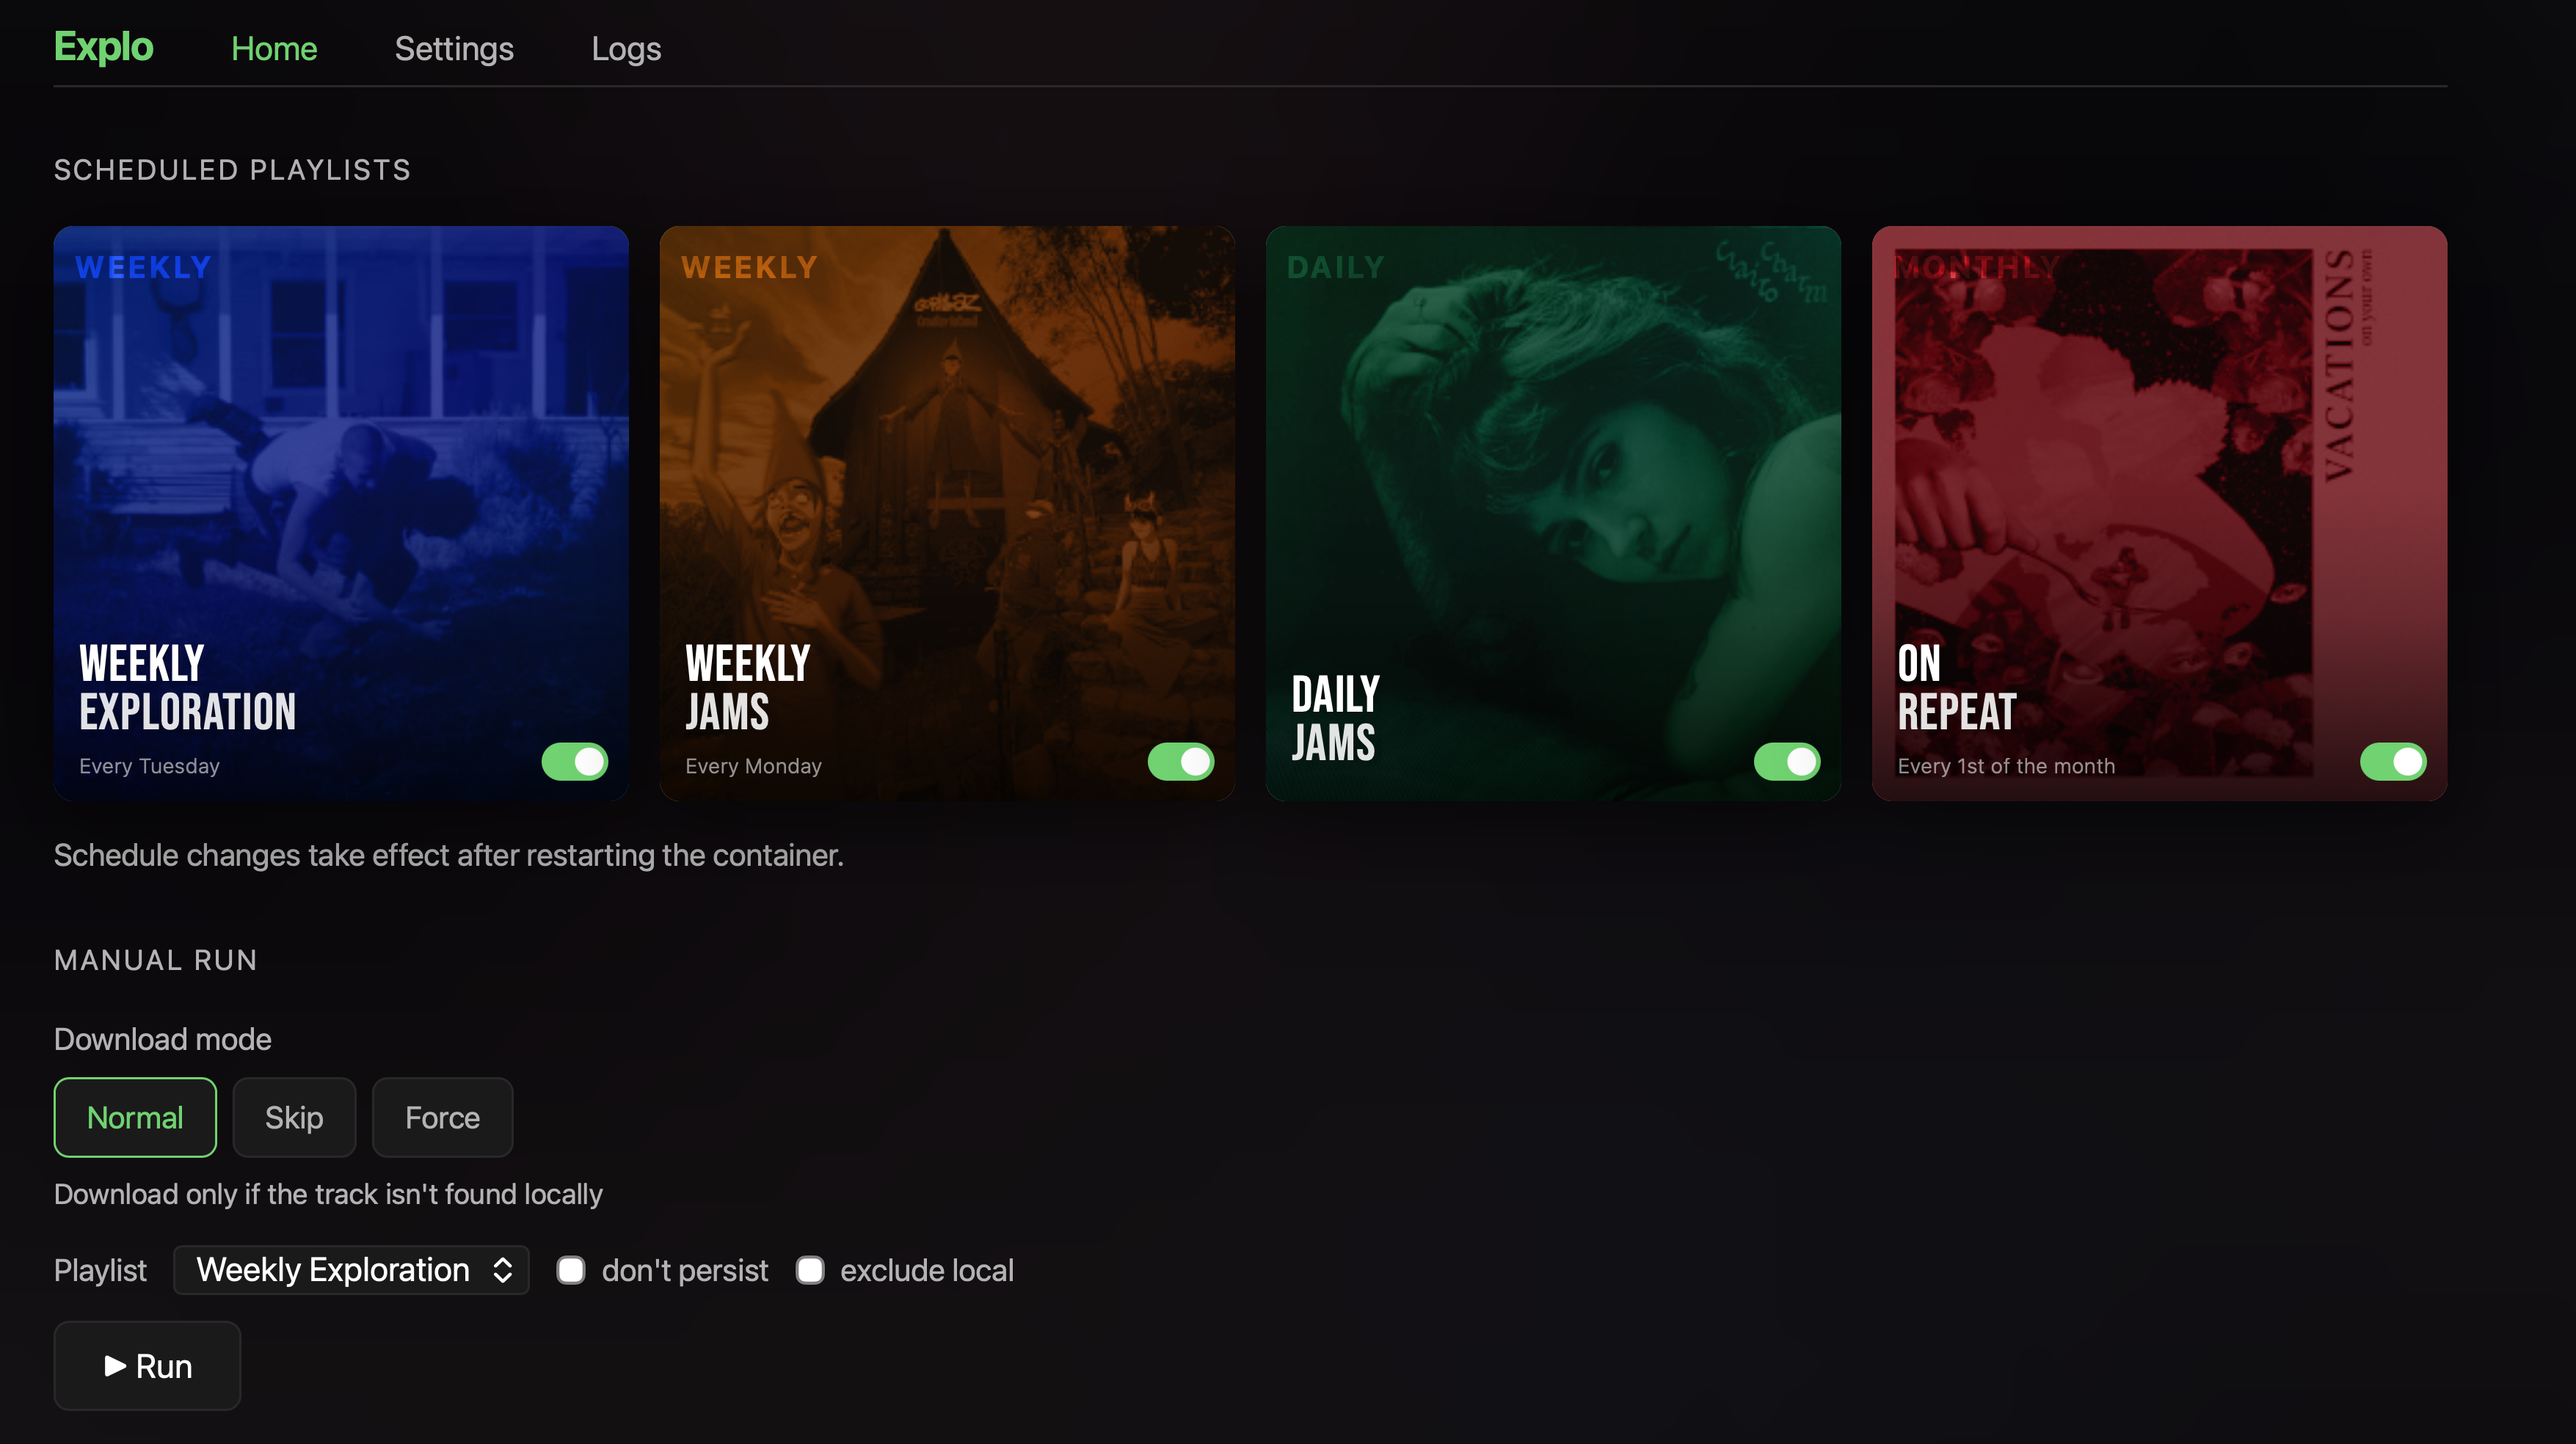
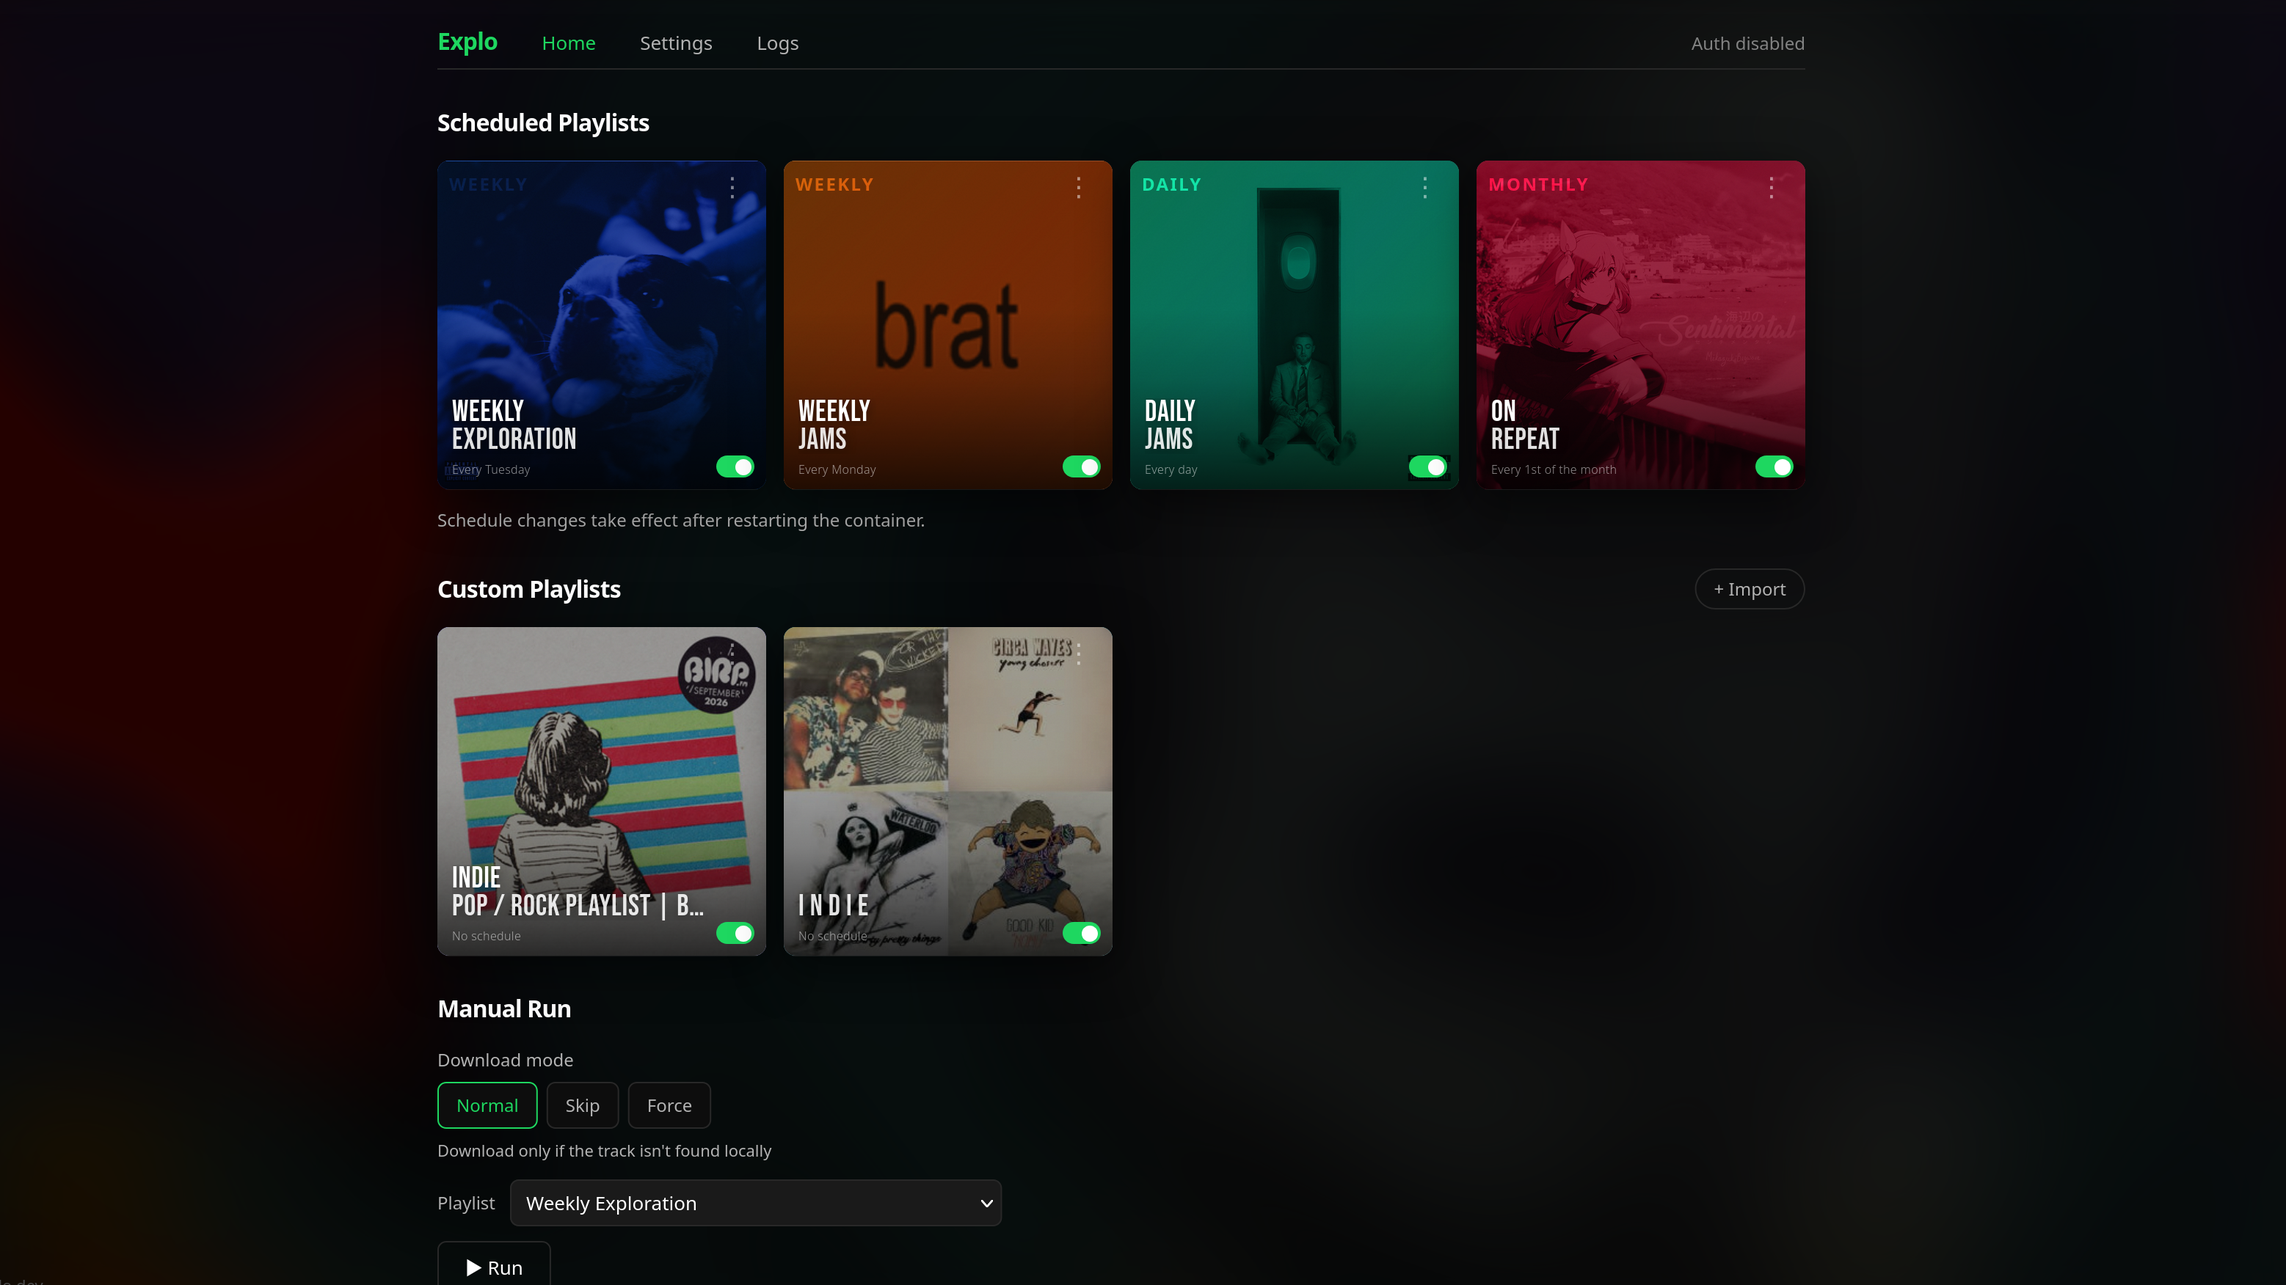
add new dashboard picture; edit README

diff --git a/README.md b/README.md
@@ -25,7 +25,7 @@ Explo uses the [ListenBrainz](https://listenbrainz.org/) recommendation engine t
   - Apple Music
   - ListenBrainz
   - Spotify
-- Request tracks from YouTube, Soulseek, or both
+- Automatically request playlist tracks from YouTube and Soulseek, or albums through Lidarr
 - Add metadata to downloaded tracks
 - Create playlists in your music system
 - Optionally keep previous playlists for later listening
